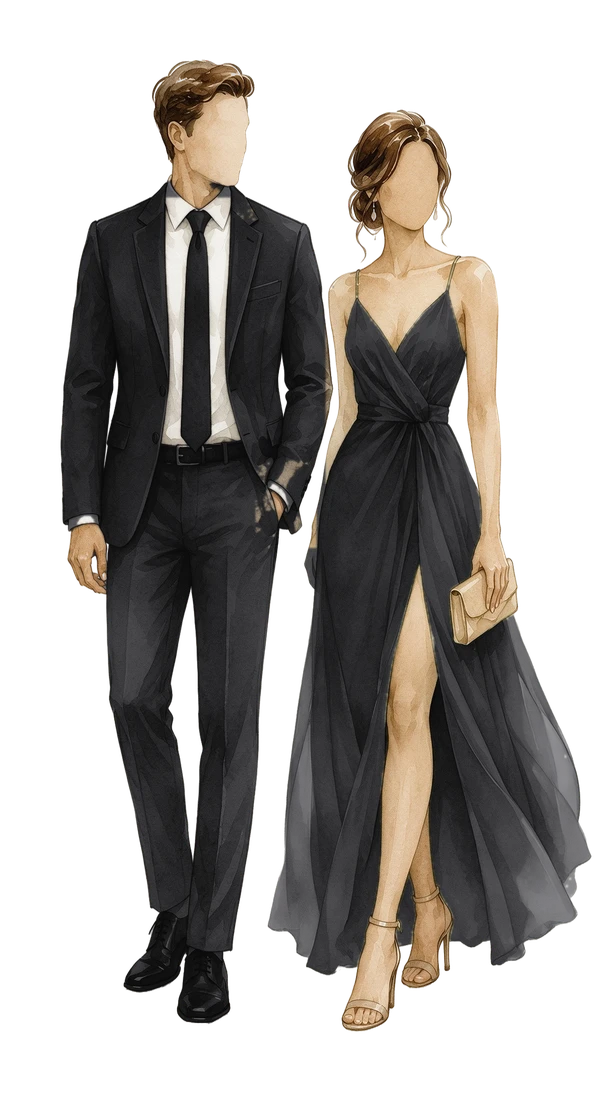
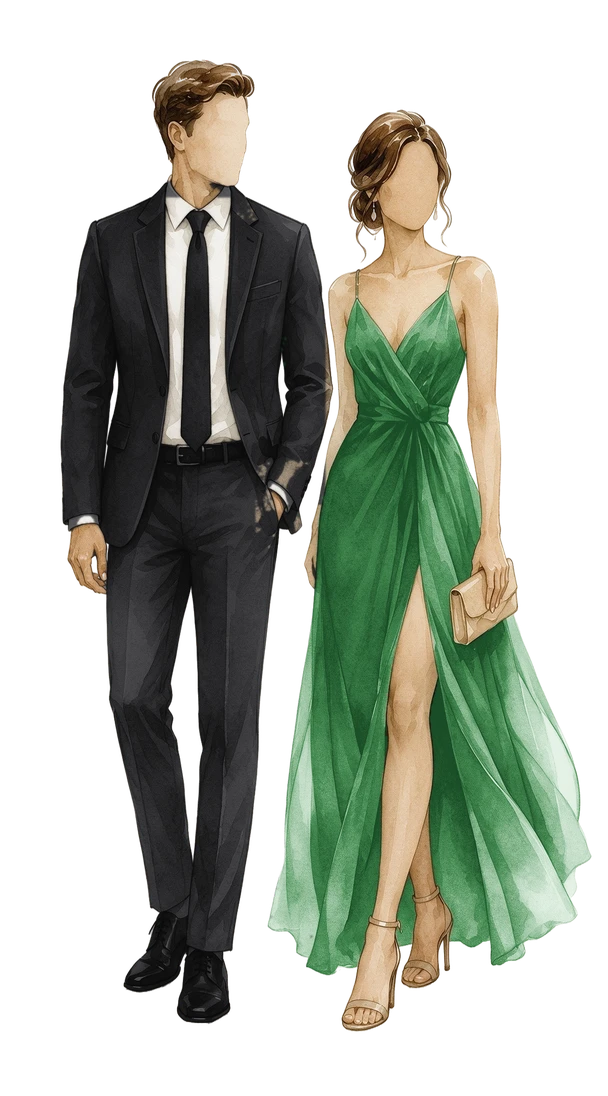
Standby: dress code homens all black, mulheres exceto azul
Claude-Session: https://claude.ai/code/session_01Y1f8HjJX5pHQrYCh3Me875

Changed region(s): [[0.4375, 0.2482, 0.9688, 0.8996], [0.6562, 0.8066, 0.6875, 0.8686]]

diff --git a/index.html b/index.html
@@ -201,8 +201,8 @@
 <img class="peca d1 desce" data-anim src="img/t-janeiro.png" alt="Janeiro" style="left:39.352%;top:36.400%;width:21.389%"><img class="peca d2 linhas" data-anim src="img/data-linhas.png" alt="" style="left:19.259%;top:38.135%;width:61.296%"><img class="peca d3 da-esq" data-anim src="img/t-domingo.png" alt="Domingo" style="left:19.907%;top:38.411%;width:16.667%"><img class="peca d3 da-dir" data-anim src="img/t-21-00.png" alt="21:00" style="left:66.481%;top:38.259%;width:9.907%"><img class="peca d4 numero" data-anim src="img/t-31.png" alt="31" style="left:43.241%;top:37.695%;width:13.056%"><img class="peca d5 sobe-d" data-anim src="img/t-2027.png" alt="2027" style="left:41.204%;top:40.105%;width:17.685%">
 <div class="brilho d-brilho" data-anim style="left:43.241%;top:37.695%;width:13.056%;aspect-ratio:141/122;-webkit-mask-image:url(img/t-31.png);mask-image:url(img/t-31.png)"></div>
 <img class="peca escrita" data-anim src="img/t-dress-code.png" alt="Dress code" style="left:28.519%;top:45.063%;width:42.963%">
-<img class="peca sobe" data-anim src="img/t-esporte-fino.png" alt="Esporte fino, all black" style="left:37.778%;top:47.721%;width:24.352%">
-<canvas class="aquarela" data-img="img/casal.webp" data-anim aria-label="Ilustração de um casal todo de preto em traje esporte fino" style="left:38.333%;top:49.649%;width:28.148%"></canvas>
+<img class="peca sobe" data-anim src="img/t-esporte-fino.png" alt="Esporte fino. Homens: all black. Mulheres: qualquer cor, exceto azul" style="left:21.111%;top:47.721%;width:57.685%">
+<canvas class="aquarela" data-img="img/casal.webp" data-anim aria-label="Ilustração de um casal em traje esporte fino: ele de preto, ela de verde" style="left:38.333%;top:50.269%;width:28.148%"></canvas>
 <img class="peca escrita" data-anim src="img/t-localizacao.png" alt="Localização" style="left:28.056%;top:61.920%;width:43.333%">
 <img class="peca sobe" data-anim src="img/t-alameda-das-framboesas-1.png" alt="Alameda das Framboesas, 151 - Caminho das Árvores, Salvador - BA" style="left:21.204%;top:65.349%;width:57.870%">
 <canvas class="aquarela" data-img="img/local.webp" data-anim aria-label="Ilustração em aquarela do local da festa" style="left:8.333%;top:67.250%;width:83.241%"></canvas>
